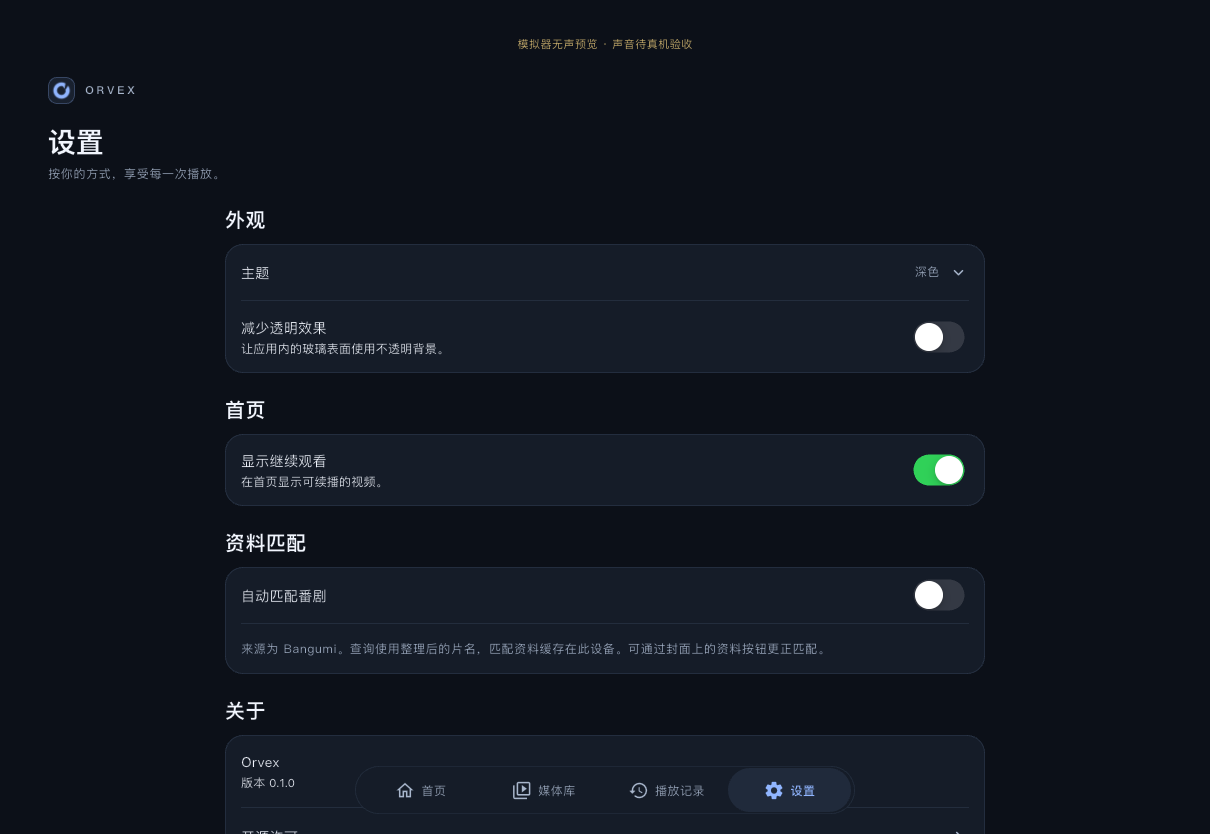
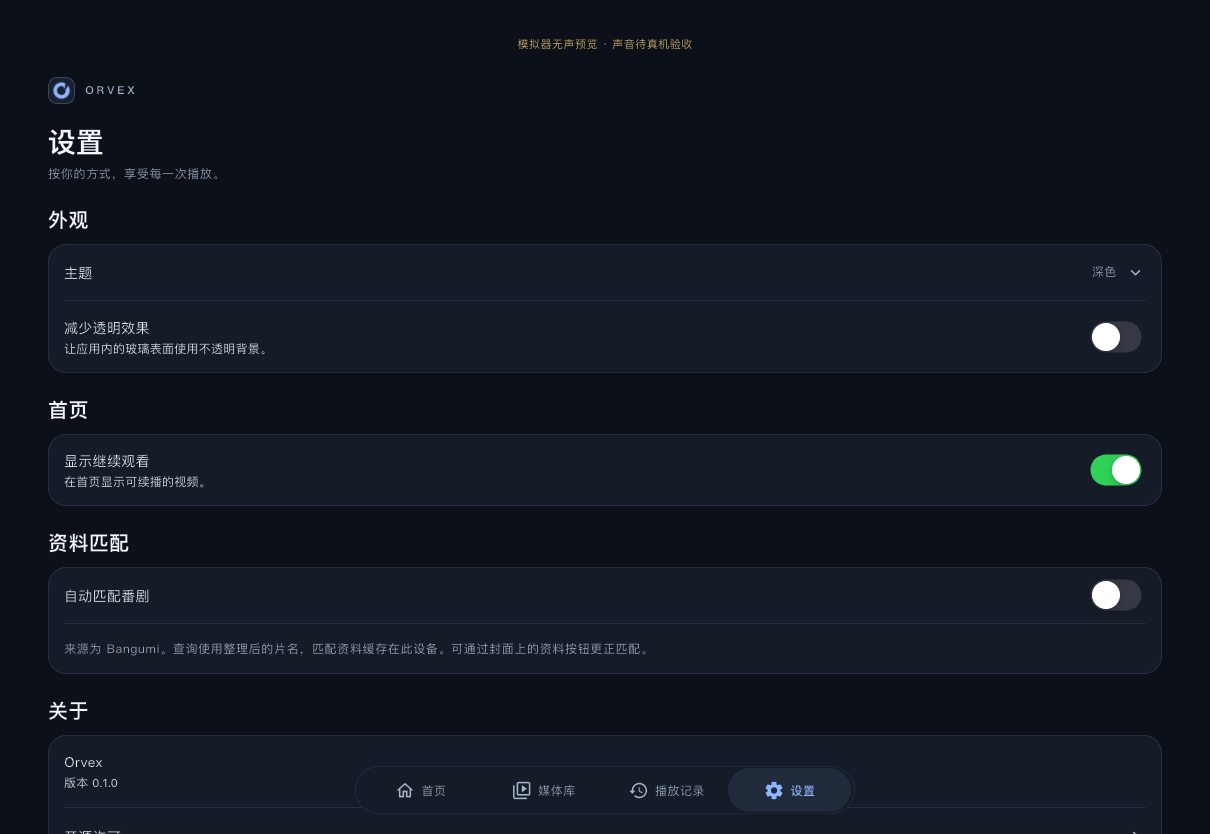
fix: align settings form with library page edges

diff --git a/integration_test/home_polish_test.dart b/integration_test/home_polish_test.dart
@@ -759,7 +759,12 @@ void main() {
         await tester.pump(const Duration(milliseconds: 450));
         expect(find.byType(TextFormField), findsWidgets);
         expect(find.byKey(const ValueKey('home-library')), findsNothing);
-        final libraryHeaderLeft = tester.getTopLeft(find.byType(OrvexBrand)).dx;
+        final librarySearchBounds = tester.getRect(
+          find.descendant(
+            of: find.byKey(const PageStorageKey('series-overview')),
+            matching: find.byType(TextFormField),
+          ),
+        );
         await tester.tap(find.byKey(const ValueKey('tab-0')));
         await tester.pump(const Duration(milliseconds: 450));
         await scrollHome(bottom: true);
@@ -783,15 +788,13 @@ void main() {
         );
         expect(
           tester.getTopLeft(settingsBrand).dx,
-          closeTo(libraryHeaderLeft, .01),
+          closeTo(librarySearchBounds.left, .01),
         );
+        final settingsFormBounds = tester.getRect(themePicker);
+        expect(settingsFormBounds.left, closeTo(librarySearchBounds.left, .01));
         expect(
-          tester.getCenter(themePicker).dx,
-          closeTo(tester.getCenter(settingsPage).dx, .01),
-        );
-        expect(
-          tester.getSize(themePicker).width,
-          lessThan(landscape.width - 200),
+          settingsFormBounds.right,
+          closeTo(librarySearchBounds.right, .01),
         );
         expect(find.text('导入本地视频'), findsNothing);
         final version = (await PackageInfo.fromPlatform()).version;

diff --git a/lib/features/library/presentation/library_views.dart b/lib/features/library/presentation/library_views.dart
@@ -91,16 +91,11 @@ class LibraryViews extends StatelessWidget {
             bottom,
           ),
           child: Column(
-            crossAxisAlignment: CrossAxisAlignment.start,
+            crossAxisAlignment: CrossAxisAlignment.stretch,
             children: [
               _header(context),
               const SizedBox(height: OrvexMetrics.section),
-              Center(
-                child: ConstrainedBox(
-                  constraints: const BoxConstraints(maxWidth: 760),
-                  child: _settings(context),
-                ),
-              ),
+              _settings(context),
             ],
           ),
         );

diff --git a/docs/verification/settings-first/README.md b/docs/verification/settings-first/README.md
@@ -1,6 +1,6 @@
 # 设置页第一轮整理
 
-页头复用媒体库的 `libraryBrowseInset`。表单在宽窗口保留原有最大宽度并水平居中，在窄窗口占满页边距内的宽度。页底继续采用底部播放卡和导航测量后的留位。
+页头和表单共用媒体库的 `libraryBrowseInset`。表单在宽窄窗口均占满两侧页边距之间的空间，分组标题与页头左对齐。页底继续采用底部播放卡和导航测量后的留位。
 
 | 设置 | 存储与实际作用 |
 | --- | --- |
@@ -14,7 +14,7 @@
 
 `./scripts/check` 通过，包含格式、静态分析和 171 项测试。主题保存后重新初始化偏好控制器，核对三种选择的读回结果；组件测试模拟系统外观与 iOS 辅助功能变化，并用替身验证 Bangumi 自动查询。正式版已覆盖安装并启动于 iPad Pro 2022。真机的应用重启、系统辅助功能切换和用户片库操作留待人工验收。
 
-iPad 模拟器集成测试通过。核对媒体库与设置页的页头左边界、宽屏表单居中、窄窗口表单边距、主题菜单、真实版本号、隐藏续播区后保留原记录与播放会话，以及有底部播放卡时仍能在窄窗打开开源许可。该测试使用无声模拟器素材。
+iPad 模拟器集成测试通过。核对横屏表单与媒体库搜索框的两侧边界、窄窗口表单边距、主题菜单、真实版本号、隐藏续播区后保留原记录与播放会话，以及有底部播放卡时仍能在窄窗打开开源许可。该测试使用无声模拟器素材。
 
 | iPad 模拟器 | 截图 |
 | --- | --- |
